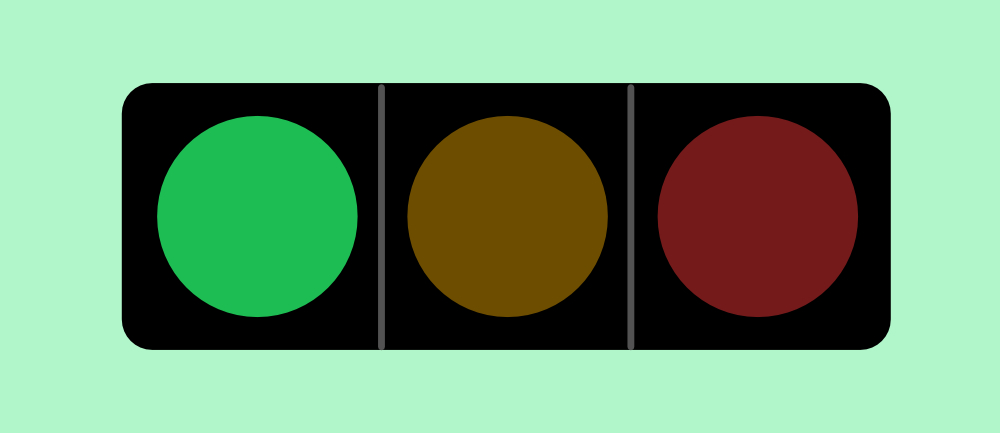
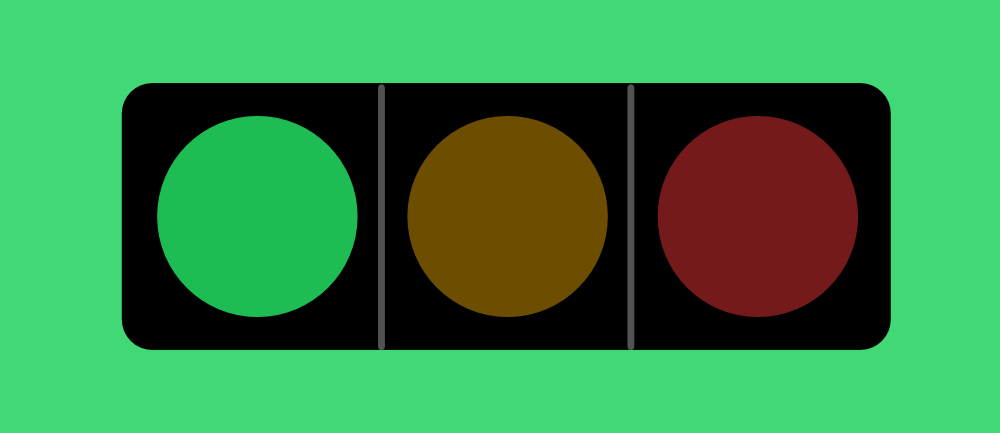
v2.0 temperature, color enhansements, calendar text bigger

diff --git a/app.js b/app.js
@@ -1,4 +1,4 @@
-// Versión 1.19
+// Versión 2.0
 
 // Función para actualizar la hora y el semáforo
 function actualizarHoraYSemaforo() {
@@ -56,7 +56,7 @@ function actualizarHoraYSemaforo() {
         mostrarHora.style.color = 'black'; // Texto negro
     } else if (horas >= 19 && horas < 20) { // 7:00 PM - 7:59 PM
         imagenHora.src = 'img/atardecer.jpg';
-        contenedorHora.classList.add('bg-orange-300');
+        contenedorHora.classList.add('bg-orange-400');
         contenedorHora.classList.remove('bg-indigo-900', 'bg-blue-500', 'bg-sky-300'); // Eliminar otras clases
         mostrarHora.style.color = 'black'; // Texto negro
     } else { // 8:00 PM - 11:59 PM
@@ -73,40 +73,40 @@ function actualizarHoraYSemaforo() {
     // Cambios en el semáforo basados en rangos de hora
     if (horas >= 0 && horas < 6) { // 12:00 AM - 5:59 AM
         imagenSemaforo.src = 'img/rojo.jpg'; // Cambiar a imagen roja
-        contenedorSemaforo.classList.add('bg-red-300'); // Cambiar el fondo a rojo
-        contenedorSemaforo.classList.remove('bg-green-200', 'bg-yellow-200'); // Eliminar otros colores
+        contenedorSemaforo.classList.add('bg-red-400'); // Cambiar el fondo a rojo
+        contenedorSemaforo.classList.remove('bg-green-400', 'bg-yellow-400'); // Eliminar otros colores
     } else if (horas === 6) { // 6:00 AM
         imagenSemaforo.src = 'img/amarillo.jpg'; // Cambiar a imagen amarilla
-        contenedorSemaforo.classList.add('bg-yellow-200'); // Cambiar el fondo a amarillo
-        contenedorSemaforo.classList.remove('bg-green-200', 'bg-red-300'); // Eliminar otros colores
+        contenedorSemaforo.classList.add('bg-yellow-400'); // Cambiar el fondo a amarillo
+        contenedorSemaforo.classList.remove('bg-green-400', 'bg-red-400'); // Eliminar otros colores
     } else if (horas === 7) { // 7:00 AM
         imagenSemaforo.src = 'img/verde.jpg'; // Cambiar a imagen verde
-        contenedorSemaforo.classList.add('bg-green-200'); // Cambiar el fondo a verde
-        contenedorSemaforo.classList.remove('bg-yellow-200', 'bg-red-300'); // Eliminar otros colores
+        contenedorSemaforo.classList.add('bg-green-400'); // Cambiar el fondo a verde
+        contenedorSemaforo.classList.remove('bg-yellow-400', 'bg-red-400'); // Eliminar otros colores
     } else if (horas === 12) { // 12:00 PM
         imagenSemaforo.src = 'img/amarillo.jpg'; // Cambiar a imagen amarilla
-        contenedorSemaforo.classList.add('bg-yellow-200'); // Cambiar el fondo a amarillo
-        contenedorSemaforo.classList.remove('bg-green-200', 'bg-red-300'); // Eliminar otros colores
+        contenedorSemaforo.classList.add('bg-yellow-400'); // Cambiar el fondo a amarillo
+        contenedorSemaforo.classList.remove('bg-green-400', 'bg-red-400'); // Eliminar otros colores
     } else if (horas === 13) { // 1:00 PM
         imagenSemaforo.src = 'img/rojo.jpg'; // Cambiar a imagen roja
-        contenedorSemaforo.classList.add('bg-red-300'); // Cambiar el fondo a rojo
-        contenedorSemaforo.classList.remove('bg-green-200', 'bg-yellow-200'); // Eliminar otros colores
+        contenedorSemaforo.classList.add('bg-red-400'); // Cambiar el fondo a rojo
+        contenedorSemaforo.classList.remove('bg-green-400', 'bg-yellow-400'); // Eliminar otros colores
     } else if (horas === 19) { // 7:00 PM
         imagenSemaforo.src = 'img/amarillo.jpg'; // Cambiar a imagen amarilla
-        contenedorSemaforo.classList.add('bg-yellow-200'); // Cambiar el fondo a amarillo
-        contenedorSemaforo.classList.remove('bg-green-200', 'bg-red-300'); // Eliminar otros colores
+        contenedorSemaforo.classList.add('bg-yellow-400'); // Cambiar el fondo a amarillo
+        contenedorSemaforo.classList.remove('bg-green-400', 'bg-red-400'); // Eliminar otros colores
     } else if (horas >= 8 && horas < 12) { // 8:00 AM - 11:59 AM
         imagenSemaforo.src = 'img/verde.jpg'; // Cambiar a imagen verde
-        contenedorSemaforo.classList.add('bg-green-200'); // Cambiar el fondo a verde
-        contenedorSemaforo.classList.remove('bg-yellow-200', 'bg-red-300'); // Eliminar otros colores
+        contenedorSemaforo.classList.add('bg-green-400'); // Cambiar el fondo a verde
+        contenedorSemaforo.classList.remove('bg-yellow-400', 'bg-red-400'); // Eliminar otros colores
     } else if (horas >= 14 && horas < 19) { // 2:00 PM - 6:59 PM
         imagenSemaforo.src = 'img/verde.jpg'; // Cambiar a imagen verde
-        contenedorSemaforo.classList.add('bg-green-200'); // Cambiar el fondo a verde
-        contenedorSemaforo.classList.remove('bg-yellow-200', 'bg-red-300'); // Eliminar otros colores
+        contenedorSemaforo.classList.add('bg-green-400'); // Cambiar el fondo a verde
+        contenedorSemaforo.classList.remove('bg-yellow-400', 'bg-red-400'); // Eliminar otros colores
     } else { // 8:00 PM - 11:59 PM
         imagenSemaforo.src = 'img/rojo.jpg'; // Cambiar a imagen roja
-        contenedorSemaforo.classList.add('bg-red-300'); // Cambiar el fondo a rojo
-        contenedorSemaforo.classList.remove('bg-green-200', 'bg-yellow-200'); // Eliminar otros colores
+        contenedorSemaforo.classList.add('bg-red-400'); // Cambiar el fondo a rojo
+        contenedorSemaforo.classList.remove('bg-green-400', 'bg-yellow-400'); // Eliminar otros colores
     }
 }
 
@@ -129,13 +129,14 @@ function actualizarCalendario() {
     // Actualizar el contenido de los días de la semana
     diasDeLaSemana.forEach((dia, index) => {
         dia.innerHTML = primerDiaDeLaSemana + index; // Mostrar el número del día
-        dia.classList.remove('bg-red-300', 'bg-yellow-200', 'bg-green-200'); // Limpiar clases de fondo
+        dia.classList.remove('bg-red-400', 'bg-yellow-400', 'bg-green-400'); // Limpiar clases de fondo
     });
 
     // Marcar el día actual
     diasDeLaSemana[hoy.getDay()].classList.add('text-red-500'); // Cambiar el fondo del día actual a verde
 }
 
+let temperatura = 0;
 // Función para obtener y mostrar la temperatura actual
 async function mostrarTemperatura() {
     const apiKey = 'MJKZY85NQXXSP4NGC69T62JS9';
@@ -147,15 +148,38 @@ async function mostrarTemperatura() {
         const datos = await respuesta.json();
 
         // Redondear la temperatura
-        const temperatura = Math.round(datos.currentConditions.temp);
+        let temperatura = Math.round(datos.currentConditions.temp);
+        
+        // Limitar la temperatura entre 0 y 100
+        if (temperatura < 0) {
+            temperatura = 0;
+        } else if (temperatura > 100) {
+            temperatura = 100;
+        }
         
         // Actualizar el span del clima
         const climaSpan = document.getElementById('clima').getElementsByTagName('span')[0];
         climaSpan.innerHTML = temperatura; // Mostrar solo la temperatura redondeada
+
+        // Actualizar la posición del termómetro
+        actualizarTemperatura(); // Asegúrate de que esta función esté definida con la lógica necesaria
     } catch (error) {
         console.error('Error al obtener la temperatura:', error);
     }
 }
+
+
+// Función para actualizar la posición del span según la temperatura
+function actualizarTemperatura() {
+    const spanClima = document.getElementById('clima').getElementsByTagName('span')[0];
+    
+    // Calcular el valor de left según la escala del termómetro
+    const leftValue = (temperatura / 100) * 220; // Convertir la temperatura a la escala del termómetro
+    
+    // Actualizar la propiedad left del span
+    spanClima.style.left = `${leftValue}px`;
+}
+
 
 // Llamar a las funciones de actualización cada segundo
 setInterval(() => {
@@ -167,6 +191,7 @@ setInterval(() => {
 setInterval(() => {
     // mostrarTemperatura(); // Actualizar la temperatura
 }, 1800000); // cada 30 mins
+// mostrarTemperatura();
 
 // Recargar la página
 setInterval(() => {

diff --git a/index.html b/index.html
@@ -34,22 +34,22 @@
 
 
     <!-- Módulo de clima -->
-    <div id="clima" class="relative rounded-lg w-full h-[113px] flex gap-2 bg-center bg-no-repeat bg-contain flex justify-center relative" style="background-image: url('img/clima-lock.jpg'); background-color: #f5ebff; padding-top: 15px">
-        <div class="bg-black w-[229px] h-[55px] mr-[2px] relative">
-            <span class="absolute top-1/2 -translate-y-1/2 rounded-full w-10 h-10 bg-white flex justify-center items-center font-bold text-2xl pt-[3px]">89</span>
+    <div id="clima" class="relative rounded-lg w-full h-[113px] flex gap-2 bg-center bg-no-repeat bg-contain flex justify-center relative bg-purple-300 pt-[15px]" style="background-image: url('img/clima.jpg');">
+        <div class="w-[260px] h-[55px] relative">
+            <span class="absolute top-1/2 -translate-y-1/2 rounded-full w-10 h-10 bg-white flex justify-center items-center font-bold text-2xl pt-[3px]">--</span>
         </div>
     </div>
     
     <!-- Calendario -->
     <div id="calendario" class="relative rounded-lg w-full h-[113px] flex gap-2 bg-center bg-no-repeat bg-contain bg-gray-200 flex-shrink-0" style="background-image: url('img/calendario.jpg');">
-        <div class="flex gap-[12px] absolute top-[82px] left-1/2 transform -translate-x-1/2 z-10">
-            <div id="domingo" class="text-xl font-bold"></div>
-            <div id="lunes" class="text-xl font-bold"></div>
-            <div id="martes" class="text-xl font-bold"></div>
-            <div id="miercoles" class="text-xl font-bold"></div>
-            <div id="jueves" class="text-xl font-bold"></div>
-            <div id="viernes" class="text-xl font-bold"></div>
-            <div id="sabado" class="text-xl font-bold"></div>
+        <div class="w-[232px] flex justify-between absolute top-[78px] left-1/2 transform -translate-x-1/2 z-10">
+            <div id="domingo" class="text-2xl font-bold"></div>
+            <div id="lunes" class="text-2xl font-bold"></div>
+            <div id="martes" class="text-2xl font-bold"></div>
+            <div id="miercoles" class="text-2xl font-bold"></div>
+            <div id="jueves" class="text-2xl font-bold"></div>
+            <div id="viernes" class="text-2xl font-bold"></div>
+            <div id="sabado" class="text-2xl font-bold"></div>
         </div>
     </div>
 
